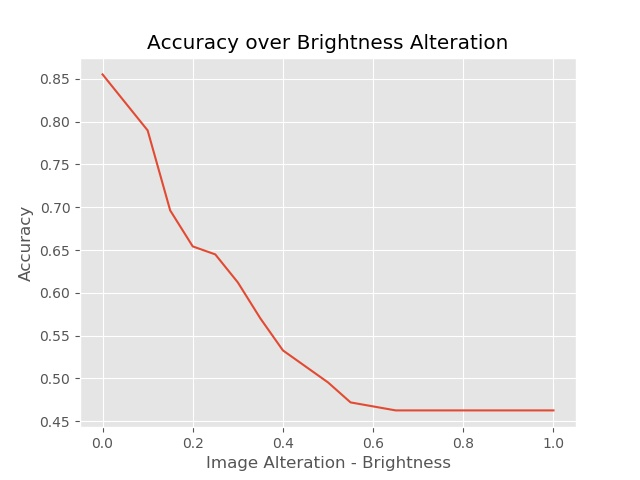
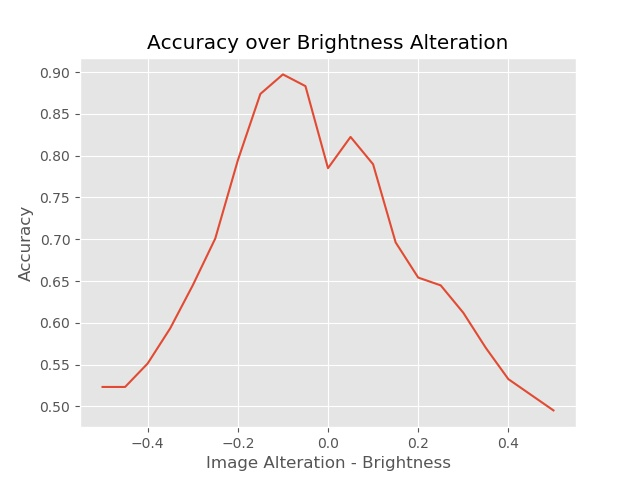
Update

diff --git a/code/roby_Use/breast-cancer/breast_cancer_local.py b/code/roby_Use/breast-cancer/breast_cancer_local.py
@@ -66,10 +66,10 @@ if __name__ == '__main__':
     environment = EnvironmentRTest(model, file_list, classes,
                                    preprocess_f=pre_processing,
                                    labeler_f=labeler)
-
+    
     # get the standard behavior of the net
     accuracy = classification(environment, reader)
-
+    """
     # create the alteration_type as a GaussianNoise with variance 200
     alteration_type: Alteration = GaussianNoise(0, 1, 200)
 
@@ -109,15 +109,15 @@ if __name__ == '__main__':
     results = robustness_test(environment, alteration_type, 20,
                               accuracy_treshold)
     display_robustness_results(results)
-
+    """
     # create the alteration_type as a Brightness Variation
-    alteration_type = Brightness(0, 1)
+    alteration_type = Brightness(-0.5, 0.5)
 
     # perform robustness analysis, with 20 points
     results = robustness_test(environment, alteration_type, 20,
                               accuracy_treshold)
     display_robustness_results(results)
-
+    """
     # create the alteration_type as a Zoom
     alteration_type = Zoom(0, 1)
 
@@ -125,3 +125,4 @@ if __name__ == '__main__':
     results = robustness_test(environment, alteration_type, 20,
                               accuracy_treshold)
     display_robustness_results(results)
+    """

diff --git a/code/roby/roby/Alterations.py b/code/roby/roby/Alterations.py
@@ -625,7 +625,7 @@ class Brightness(Alteration):
                 applied
         """
         assert(isinstance(data, np.ndarray))
-        if not (-0.00001 <= float(alteration_level) <= 0.00001):
+        if not (-0.0001 <= float(alteration_level) <= 0.0001):
             if isinstance(data, np.ndarray):
                 if self.picture_mode == 'RGB':
                     data = Image.fromarray(data, 'RGB')
